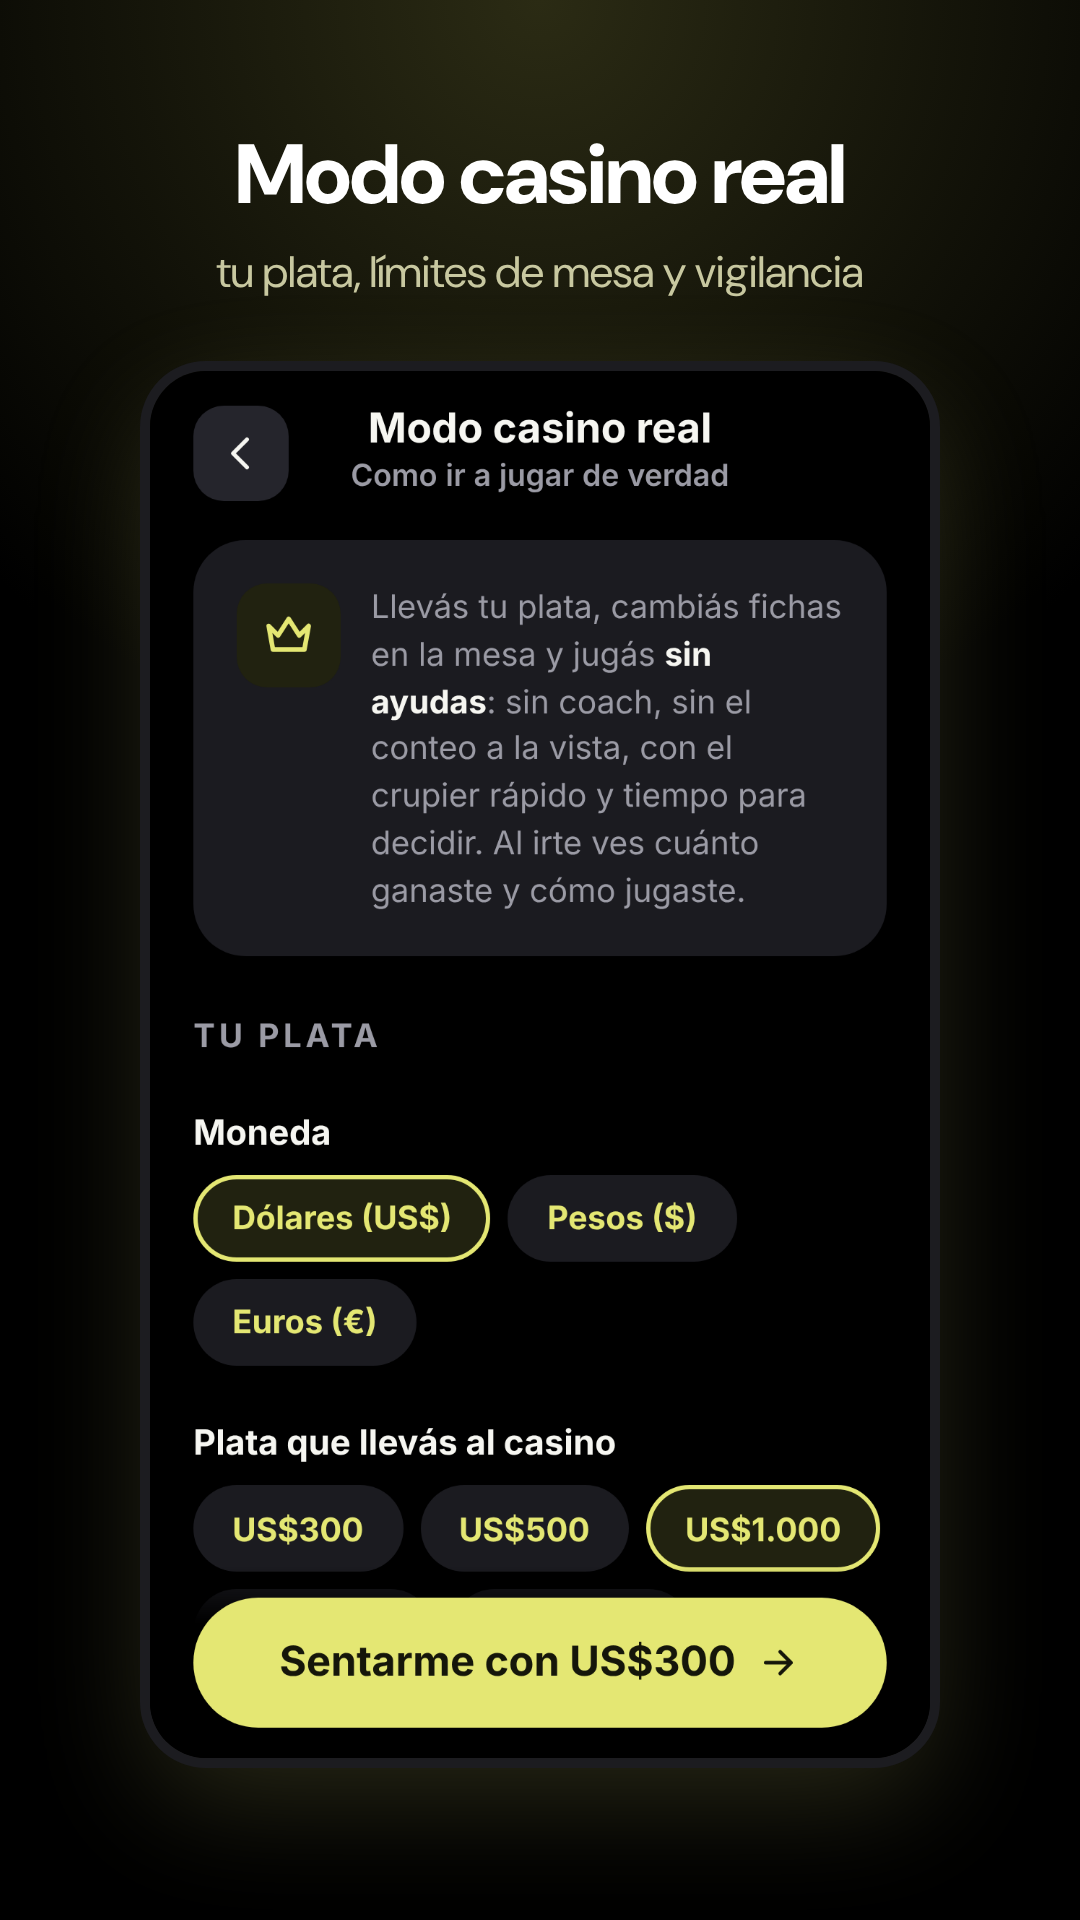
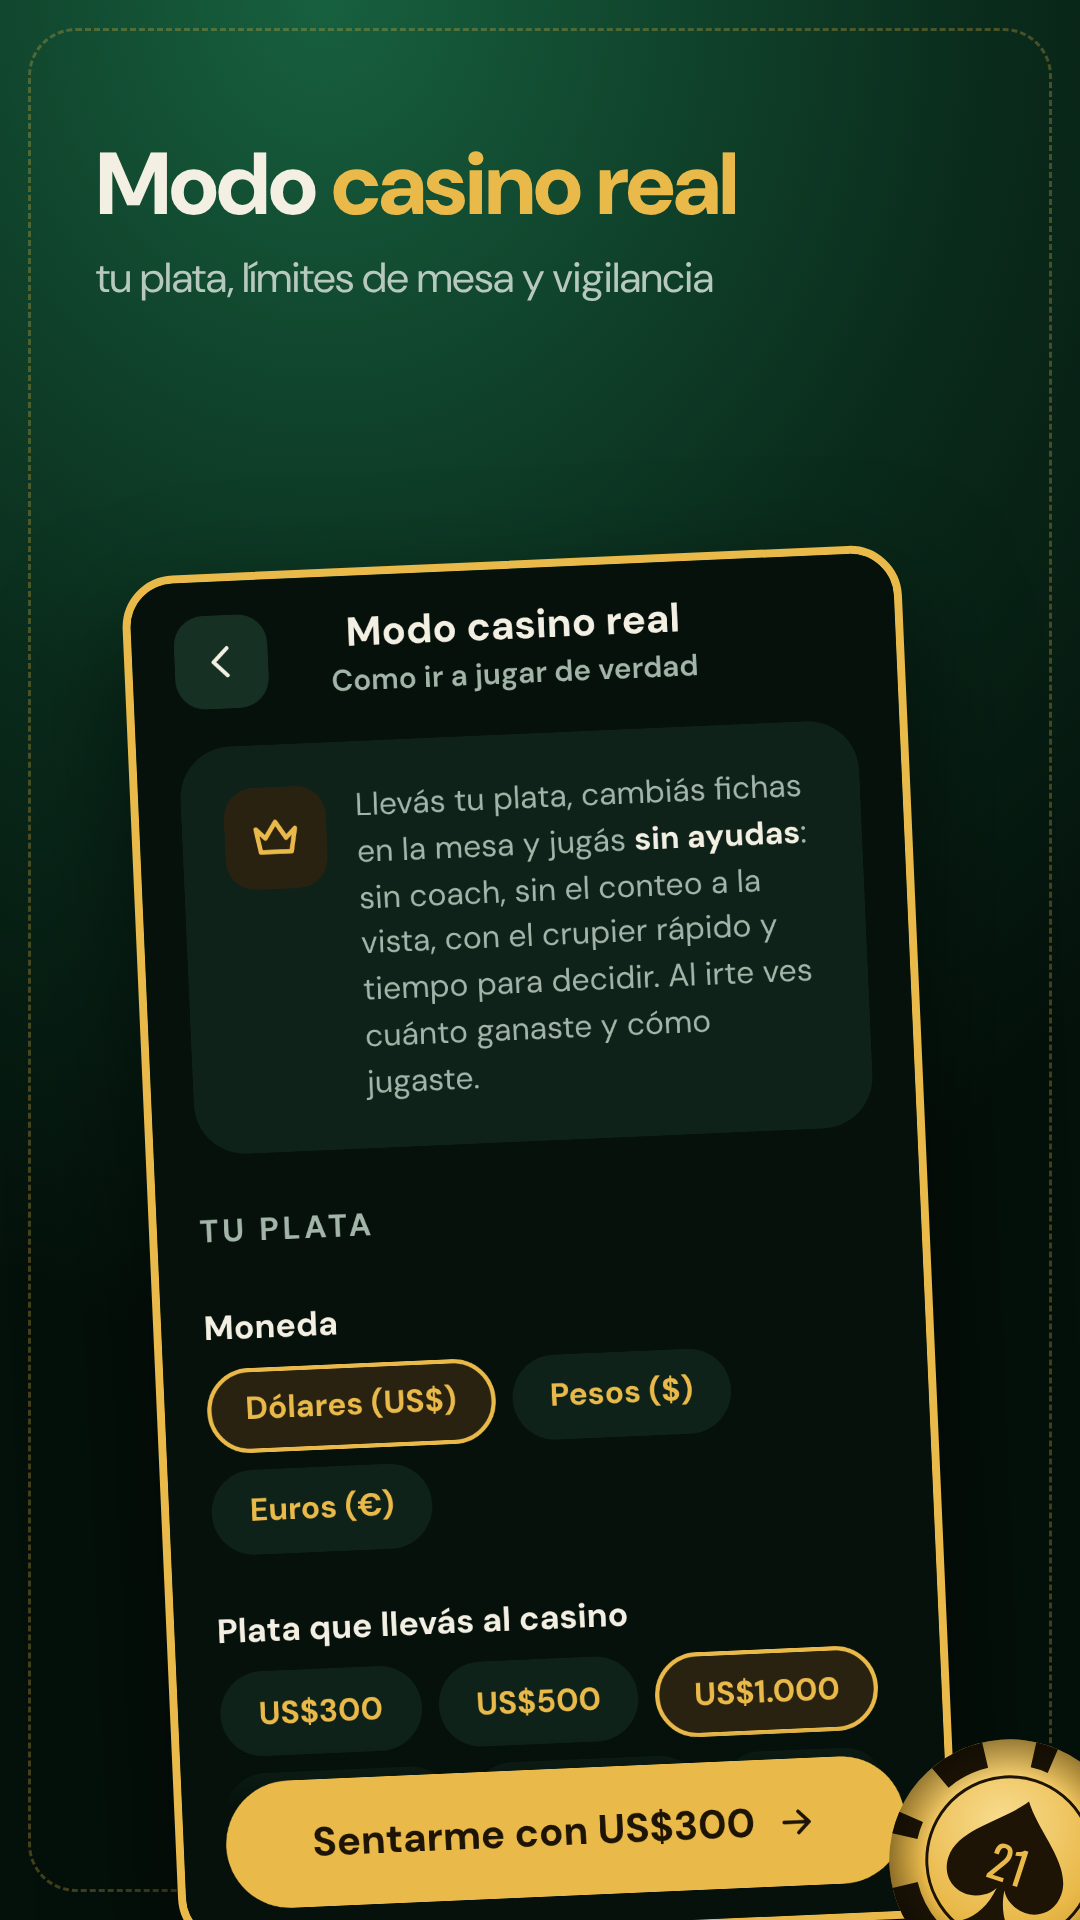
Capturas de la tienda con la identidad nueva, en español y en inglés
Claude-Session: https://claude.ai/code/session_01XrjhVkWobGKNYtvNKnTajv

diff --git a/PLAY_STORE.md b/PLAY_STORE.md
@@ -87,7 +87,7 @@ Después completá el panel **"Configura tu app"**. Lo que va en cada formulario
 - el gráfico destacado: `store/grafico-destacado.png`;
 - las capturas de teléfono: `store/capturas/01.png` a `07.png`.
 
-La app también está en inglés (sale en inglés en los celulares que no están en español). Para que la ficha también aparezca en inglés: **Ficha de Play Store → Administrar traducciones → Agregar traducciones → Inglés (Estados Unidos)** y pegá los textos de `store/ficha-en.md`.
+La app también está en inglés (sale en inglés en los celulares que no están en español). Para que la ficha también aparezca en inglés: **Ficha de Play Store → Administrar traducciones → Agregar traducciones → Inglés (Estados Unidos)** y pegá los textos de `store/ficha-en.md`, y subí `store/grafico-destacado-en.png` y las capturas de `store/capturas-en/`.
 
 ## Paso 6 · Prueba interna y el producto Premium
 
